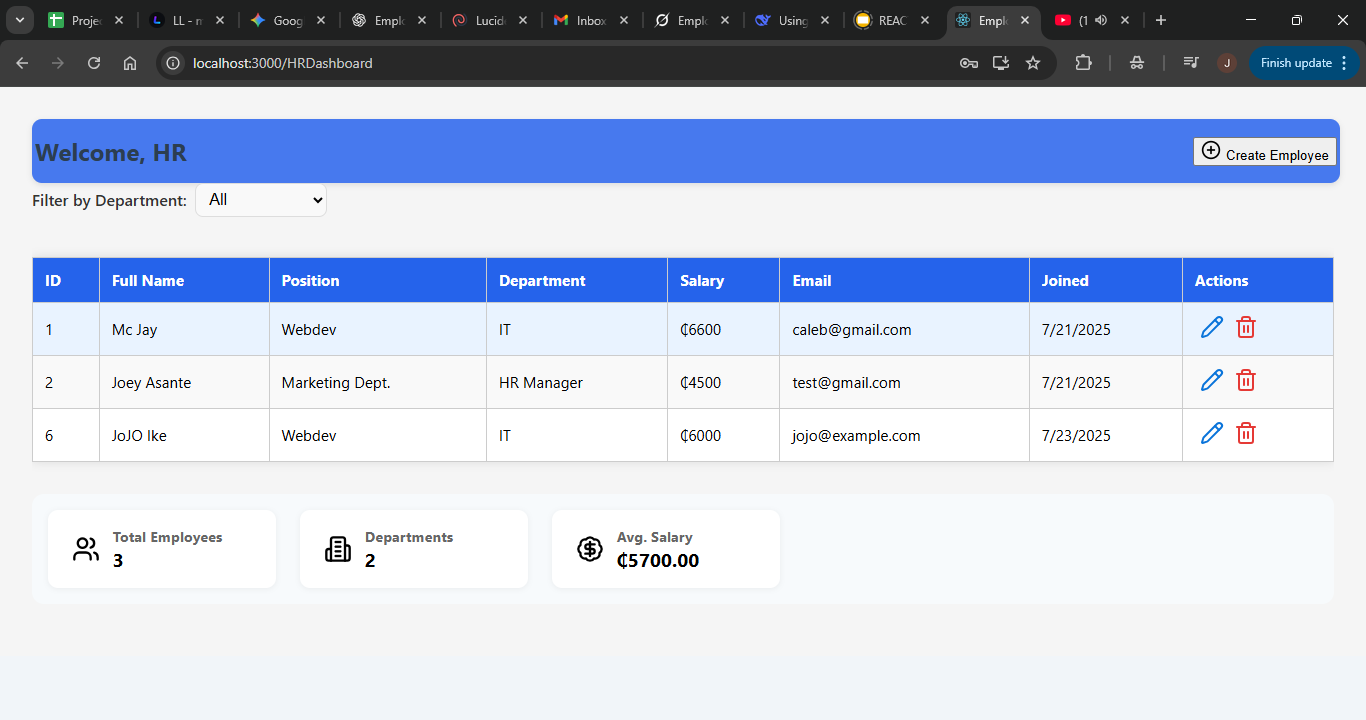
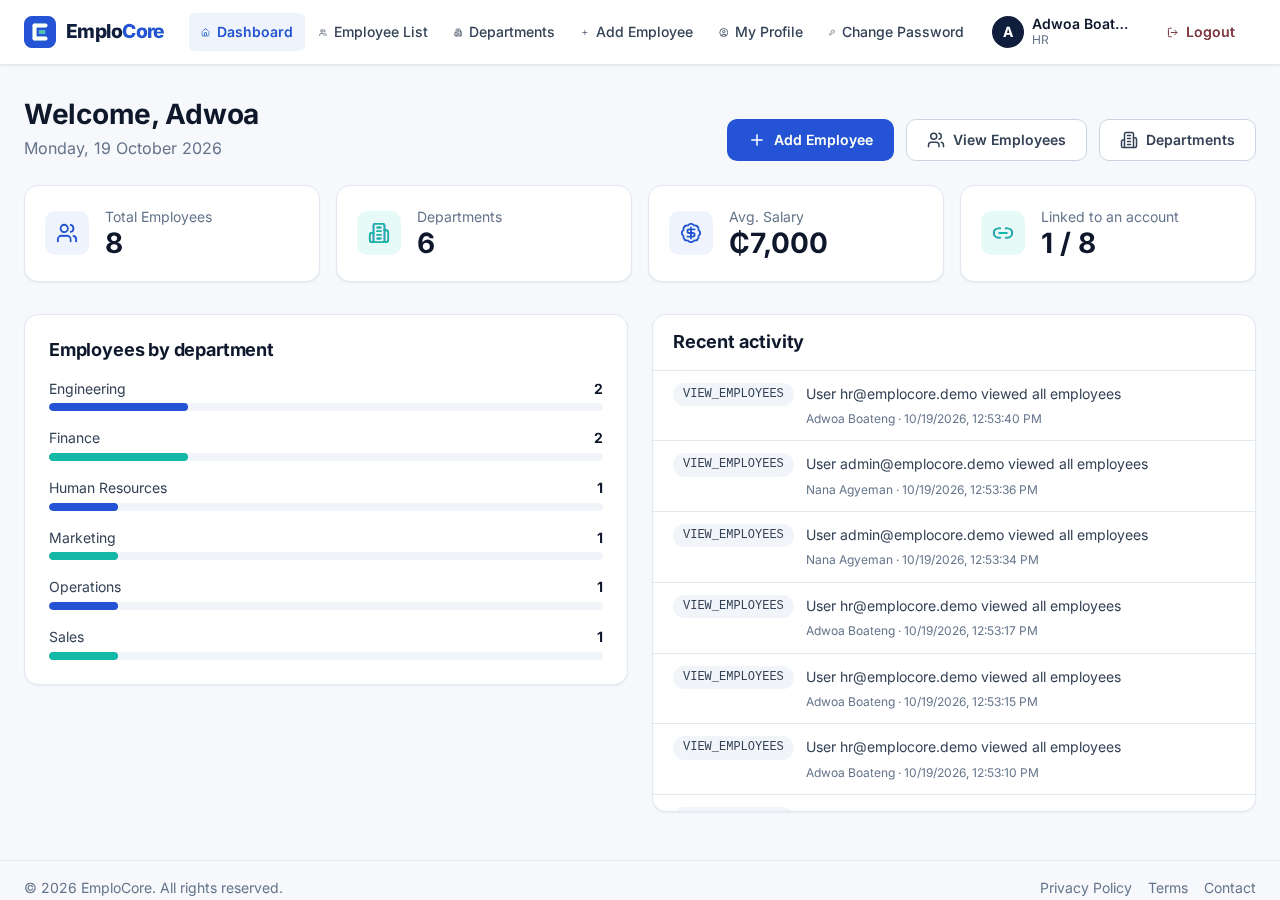
EmploCore screenshots: new login, admin and HR dashboards, add departments

diff --git a/Projects.html b/Projects.html
@@ -246,7 +246,8 @@
           'assets/homepageEmplocore.png',
           'assets/login-page.png',
           'assets/admin-dashboard.png',
-          'assets/hrdashboard.png'
+          'assets/hrdashboard.png',
+          'assets/departments.png'
         ],
         'fashion-hub': ['assets/fashion-hub.png']
       };

diff --git a/index.html b/index.html
@@ -397,7 +397,8 @@
           'assets/homepageEmplocore.png',
           'assets/login-page.png',
           'assets/admin-dashboard.png',
-          'assets/hrdashboard.png'
+          'assets/hrdashboard.png',
+          'assets/departments.png'
         ],
         'fashion-hub': ['assets/fashion-hub.png']
       };
